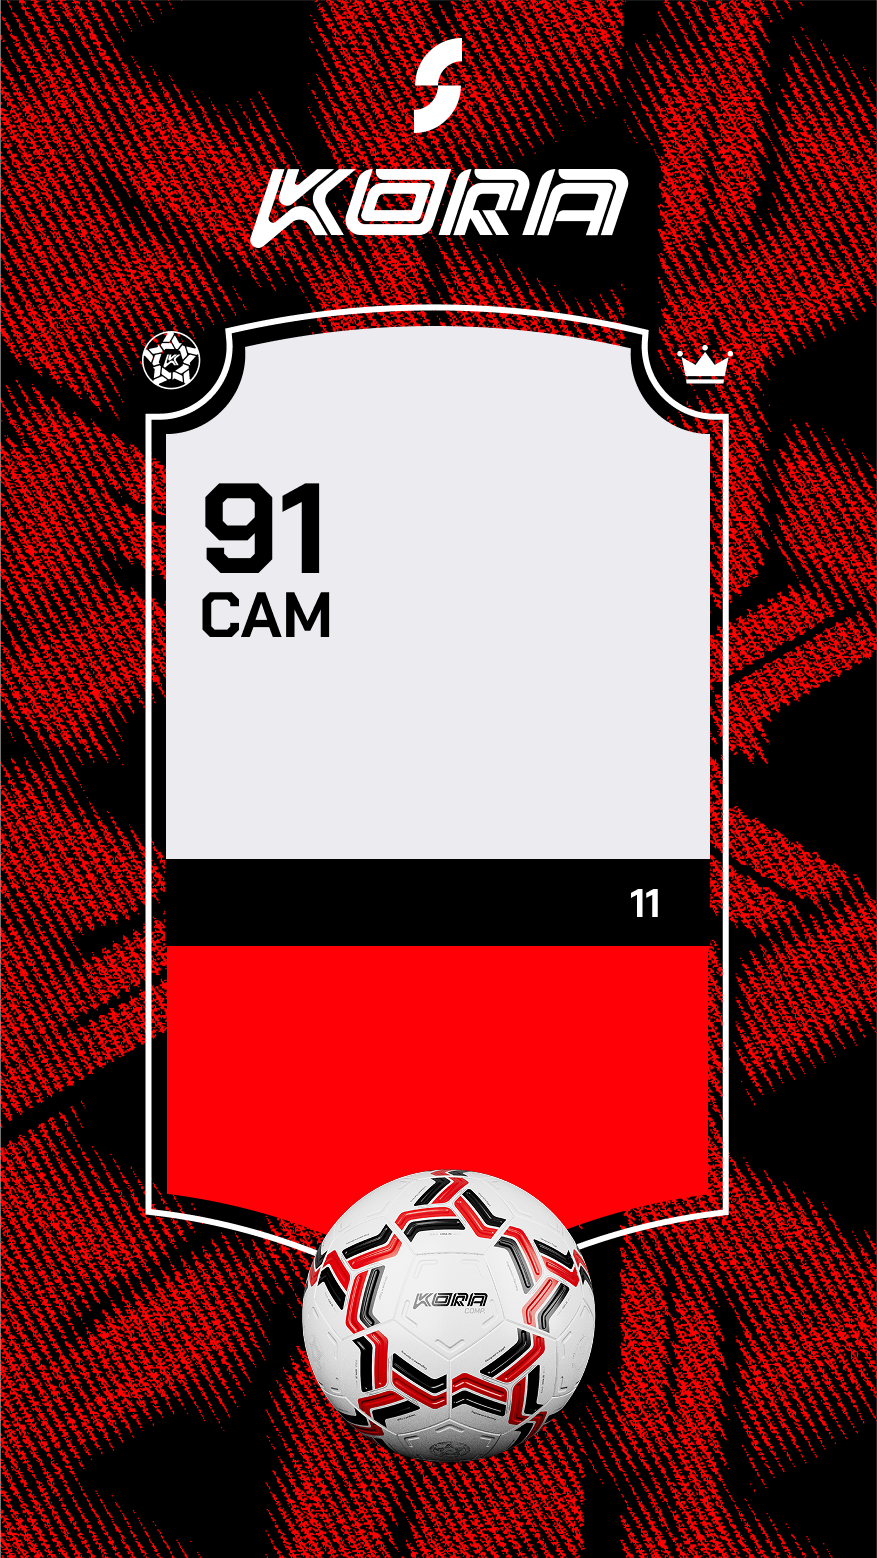
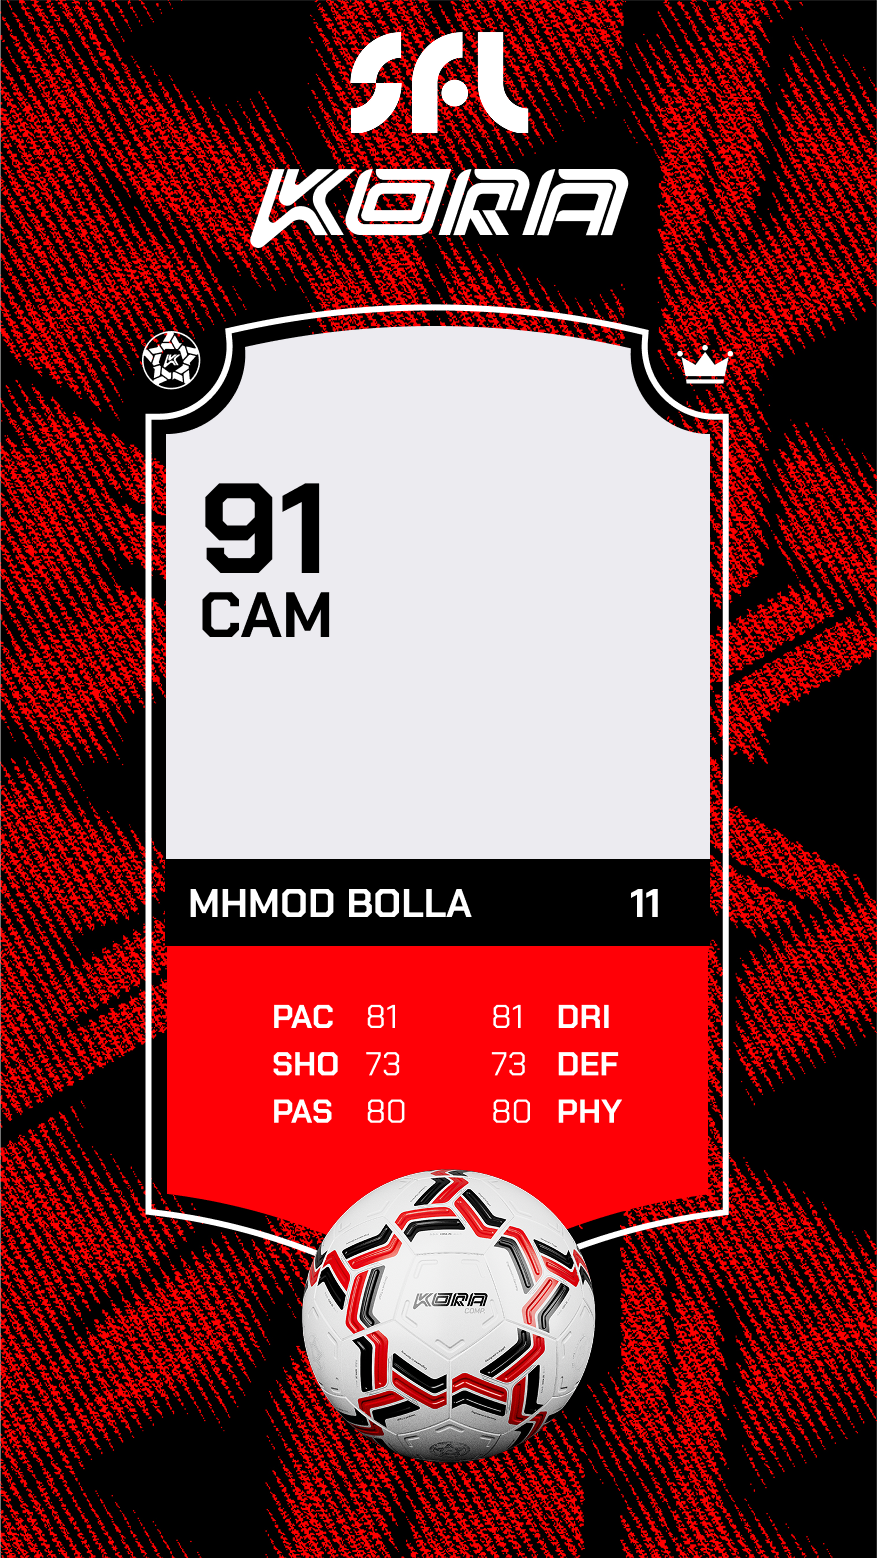
fixes to the designs

diff --git a/src/app/tv-wall.component.html b/src/app/tv-wall.component.html
@@ -5,7 +5,7 @@
       <span class="wall-experience">EXPERIENCE</span>
     </div>
     <div class="wall-header-center" aria-label="Social Football League">
-      <img src="/brand/sfl-tv-white.svg" alt="SFL — Social Football League" class="wall-header-logo wall-sfl-mark">
+      <img src="/brand/sfl-tv-white.png" alt="SFL — Social Football League" class="wall-header-logo wall-sfl-mark">
     </div>
     <div class="wall-header-partner wall-header-right">
       <img src="/brand/refuel-tv-white.svg" alt="REFUEL" class="wall-header-logo wall-refuel-mark">
